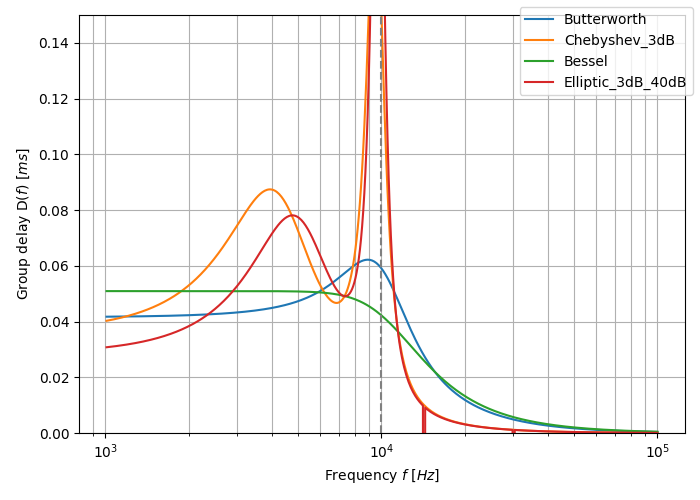
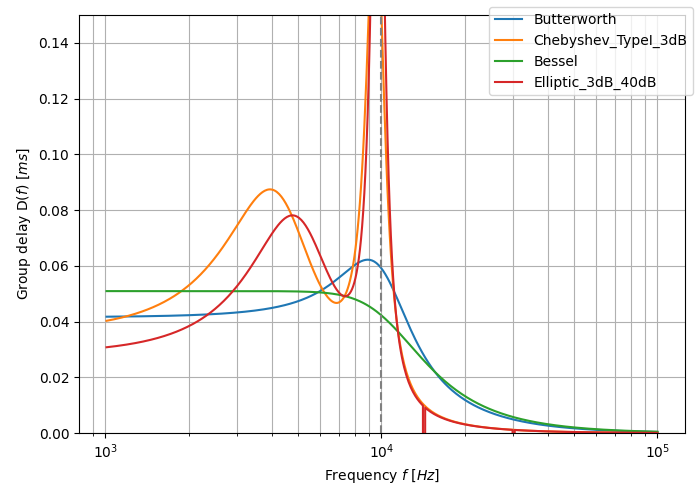
Added more info/graphs on filter tunings.

Changed region(s): [[0.69, 0.03, 0.99, 0.18]]

diff --git a/content/electronics/circuit-design/analogue-filters/filter-tunings/main.py b/content/electronics/circuit-design/analogue-filters/filter-tunings/main.py
@@ -24,7 +24,7 @@ def main():
     # create_bessel_poly_table()
     # create_bessel_bode_plots()
 
-    create_group_delay_comparison_plot()
+    create_comparison_plots()
 
 #==========================================================
 # Butterworth
@@ -311,8 +311,10 @@ def create_bessel_bode_plots():
 # Comparisons (all filter tunings)
 #==========================================================
 
-def create_group_delay_comparison_plot():
-
+def create_comparison_plots() -> None:
+    """
+    Creates a number of plots to compare gain, phase, group delay e.t.c for various filter tunings.
+    """
     filter_tunings = []
 
     order = 4
@@ -328,7 +330,7 @@ def create_group_delay_comparison_plot():
 
     b, a = scipy.signal.cheby1(N=order, rp=3, Wn=critical_freq_radps, btype='lowpass', analog=True)
     filter_tunings.append({
-        'name': 'Chebyshev_3dB',
+        'name': 'Chebyshev_TypeI_3dB',
         'b': b,
         'a': a,
     })
@@ -353,7 +355,34 @@ def create_group_delay_comparison_plot():
     w = 2*np.pi*f
 
     #======================
-    # Gain
+    # Gain (linear axes)
+    #======================
+
+    f_linear_Hz = np.linspace(0, critical_freq_Hz*2, 500)
+    w_linear_radps = 2*np.pi*f_linear_Hz
+    fig, ax = plt.subplots(figsize=(7, 5))
+    for filter_tuning in filter_tunings:
+        # Calculate value of transfer function h at various w
+        b = filter_tuning['b']
+        a = filter_tuning['a']
+        _, h = scipy.signal.freqs(b, a, worN=w_linear_radps)
+
+        # Calculate the group delay
+        gain = np.abs(h)
+        
+        ax.plot(f_linear_Hz, gain, label=filter_tuning['name'])
+
+    # Draw vertical marker at w_c
+    ax.axvline(x=critical_freq_Hz, ls='--', color='grey')    
+    ax.set_xlabel('Frequency $f$ [$Hz$]')
+    ax.set_ylabel('Gain $|H(f)|$ [$V/V$]')
+    ax.grid(which='both')
+    fig.legend()
+    fig.tight_layout()
+    fig.savefig(SCRIPT_DIR / 'tuning-comparison-gain-linear.png')
+
+    #======================
+    # Gain (db)
     #======================
 
     fig, ax = plt.subplots(figsize=(7, 5))
@@ -372,11 +401,36 @@ def create_group_delay_comparison_plot():
     ax.axvline(x=critical_freq_Hz, ls='--', color='grey')
     ax.set_xscale('log')
     ax.set_xlabel('Frequency $f$ [$Hz$]')
-    ax.set_ylabel('Gain |H($f$)| [$dB$]')
+    ax.set_ylabel('Gain $|H(f)|$ [$dB$]')
     ax.grid(which='both')
     fig.legend()
     fig.tight_layout()
-    fig.savefig(SCRIPT_DIR / 'tuning-comparison-gain.png')
+    fig.savefig(SCRIPT_DIR / 'tuning-comparison-gain-db.png')
+
+    #======================
+    # PHASE
+    #======================
+
+    fig, ax = plt.subplots(figsize=(7, 5))
+    for filter_tuning in filter_tunings:
+        # Calculate value of transfer function h at various w
+        b = filter_tuning['b']
+        a = filter_tuning['a']
+        _, h = scipy.signal.freqs(b, a, worN=w)
+        
+        phase_deg = np.rad2deg(np.unwrap(np.angle(h)))
+        ax.plot(f, phase_deg, label=filter_tuning['name'])
+
+    # Draw vertical marker at w_c
+    ax.axvline(x=critical_freq_Hz, ls='--', color='grey')
+    ax.set_xscale('log')
+    ax.set_xlabel('Frequency $f$ [$Hz$]')
+    ax.set_ylabel(r'Phase ($\theta$) [$deg$]')
+    ax.set_yticks([-360, -315, -270, -225, -180, -135, -90, -45, 0])
+    ax.grid(which='both')
+    fig.legend()
+    fig.tight_layout()
+    fig.savefig(SCRIPT_DIR / 'tuning-comparison-phase.png')
 
     #======================
     # GROUP DELAY

diff --git a/content/electronics/circuit-design/analogue-filters/filter-tunings/_index.md b/content/electronics/circuit-design/analogue-filters/filter-tunings/_index.md
@@ -21,24 +21,14 @@ _Filter tunings_ are specific tunings of filters to maximise a particular charac
 * **Bessel**: Optimized for linear phase response up to (or down to for high-pass filters) the cutoff frequency `\(f_c\)`, at the expense of a slower transition to the stop-band. This is useful to minimizing the signal distortion (a linear _phase response_ in the frequency domain is a constant _time delay_ in the time domain).
 * **Elliptic:** Designed to have the fastest transition from the passband to the stopband, at the expense of ripple in both of these bands (Chebyshev optimization only produces ripple in one of the bands but is not as fast in the transition). Also called _Cauer_ filters or _Rational Chebyshev_ filters.
 
-The graphs below show the differences in response (bode plots, gain and phase) for these various filter tunings:
-
-{{% figure src="low-pass-filter-optimization-comparison-gain-db.png" width="700px" caption="A comparison of different filter optimizations. Gain shown in dB." %}}
-
-Sometimes the differences can been visualized better by display the gain as `\(V/V\)`:
-
-{{% figure src="low-pass-filter-optimization-comparison-gain-vv.png" width="700px" caption="A comparison of different filter optimizations. Gain shown in V/V." %}}
-
-The linear phase delay of the Bessel filter is best visualized in the below plot where the phase in plotted on a linear scale rather than a logarithmic:
-
-{{% figure src="low-pass-filter-optimization-comparison-phase-linear.png" width="700px" caption="Phase delay of different filter optimizations, with the frequency plotted on a linear axis rather than a logarithmic axis. This is the best way to visualize the linear phase delay of the Bessel optimization." %}}
+These filters are explained in more detail below. If you are interested in visual comparisons, you can skip straight to the [Comparisons Between Filter Tunings section](#comparisons-between-filter-tunings).
 
 ## Butterworth Tunings
 
 Tuning a filter for a Butterworth response gives a filter which is **maximally flat in the passband**, and rolls off towards zero in the stopband. The price you pay for this is slower roll-off into the stop-band, compared with Chebyshev or Elliptic tunings.
 
 {{% tip %}}
-It may sounds dumb, but I've always remembered Butterworth as a flat passband which "slides like butter".
+It may sound dumb, but I've always remembered Butterworth as a flat passband which "slides like butter".
 {{% /tip %}}
 
 Butterworth tunings are defined as a filter whose magnitude is[^bib-wikipedia-butterworth-filter]:
@@ -320,6 +310,22 @@ We now use these equations for magnitude and phase and create bode plots!
 
 Elliptic-tuned filters (a.k.a. a Cauer or Zolotarev filter[^bib-rutgers-elliptic-lecture-notes]) is a filter that is optimized for the fastest transition in gain from the passband to the stopband. It has equal ripple in both the passband and stopband[^bib-wikipedia-elliptic-filter].
 
+Whereas most tunings are defined with a transfer function, the Elliptic filter is a special case where it is defined by it's gain. The gain for a lowpass Elliptic tuned filter is[^bib-wikipedia-elliptic-filter]:
+
+<p>\begin{align}
+G_n(\omega) &= \frac{1}{\sqrt{1 + \epsilon^2 R_n^2 (\xi, \omega/\omega_c)}} \nonumber \\
+\end{align}</p>
+
+<p class="centered">
+where:<br/>
+\(\epsilon\) is the ripple factor<br/>
+\(R_n(\xi, \omega)\) is the nth-order elliptic rational function<br/>
+\(\xi\) is the selectivity factor (\(\xi \geq 1\))<br/>
+\(\omega_c\) is the characteristic frequency, in radians per second \(rads^{-1}\)<br/>
+</p>
+
+**The big problem is that the elliptic ration function `\(R_n\)` cannot be easily expressed algebraically![^bib-recording-blogs-elliptic-filter]** It's general definition involves a Jacobi elliptic cosine function and the elliptic integral. Diving into this would be a headache, so we're just going to take the easy option and use the Python `scipy.signal.ellip()` function to provide us with the transfer function coefficients.
+
 You can generate an Elliptical filter in Python using the scipy package:
 
 ```python
@@ -328,60 +334,34 @@ import scipy.signal
 scipy.signal.ellip(N, rp, rs, Wn, btype='low', analog=False, output='ba', fs=None)
 ```
 
-## Filter Coefficient Tables
+## Comparisons Between Filter Tunings
 
-* `\(n\)` is the filter order
-* `\(i\)` is the partial filter order
-* `\(a_i\)` and `\(b_i\)` are the filter coefficients
-* `\(k_i\)` is the ratio between the corner frequency of the partial filter `\(f_{ci}\)` and the corner frequency of the overall filter `\(f_c\)`. In equation form:
-    <p>\begin{align}k_i = \frac{f_{ci}}{f_c} \end{align}</p>
-* `\(Q_i\)` is the quality factor of the partial filter
+The following parameters were used for the filters:
 
-All values have been normalized by setting `\(\omega_c = 1\)`.
+* All filters are 4th-order filters.
+* Characteristic frequency `\(f_c\)` of `\(10kHz\)`. For Butterworth and Bessel tunings the characteristic frequency is defined as the `\(-3dB\)` point. For Chebyshev and Elliptic filter tunings the characteristic frequency is defined as the point where the ripple leaves the allowable amount in the passband.
+* A rather arbitrary `\(3dB\)` of passband ripple was allowed for both the Chebyshev and Elliptic filters.
+* Being even more arbitrary, the Elliptic filter was allowed to rise back up to `\(-40dB\)` in the stopband.
 
-#### Butterworth Coefficients
+With the above specified, **the transfer function of each filter is fully defined**.
 
-<table>
-  <thead>
-    <tr><th>n</th>  <th>\(i\)</th>  <th>\(a_i\)</th>  <th>\(b_i\)</th>  <th>\(k_i\)</th>  <th>\(Q_i\)</th>  <th style="width: 200px;">Polynomial Factors</th></tr>
-  </thead>
-  <tbody>
-    <tr><td>1</td>      <td>1</td>      <td>1.0000</td>   <td>0.0000</td>   <td>1.000</td>    <td>n/a</td>  <td>\(s + 1\)</td></tr>
-    <tr><td>2</td>      <td>1</td>      <td>1.4142</td>   <td>1.0000</td>   <td>1.000</td>    <td>0.71</td> <td>\(s^2 + 1.4142s + 1\)</td></tr>
-    <tr><td>3</td>      <td>1</td>      <td>1.0000</td>   <td>0.0000</td>   <td>1.000</td>    <td>n/a</td>  <td rowspan="2">\((s + 1)(s^2 + s + 1)\)</td></tr>
-    <tr><td></td>       <td>2</td>      <td>1.0000</td>   <td>1.0000</td>   <td>1.272</td>    <td>1.00</td></tr>
-  </tbody>
-</table>
+Now we can finally look at some comparisons. The below plot compare the gain response of each filter tuning. Both axis are logarithmic. You can clearly see the Elliptic-tuned filter winning the race.
 
+{{% figure src="tuning-comparison-gain-db.png" width="600px" caption="Gain comparison of different filter tunings." %}}
 
+I think the difference is gain response can be better viewed with linear x and y axes So we'll drop the `\(dB\)` in favour of `\(V/V\)` and get rid of the logarithmic x-axis:
 
-### Chebyshev Coefficients For 3dB Passband Ripple
+{{% figure src="tuning-comparison-gain-linear.png" width="600px" caption="Gain comparison of different filter tunings, now with linear x and y axes." %}}
 
-<table>
-  <thead>
-    <tr><th>n</th>  <th>\(i\)</th>  <th>\(a_i\)</th>  <th>\(b_i\)</th>  <th>\(k_i\)</th>  <th>\(Q_i\)</th></tr>
-  </thead>
-  <tbody>
-    <tr><td>1</td>      <td>1</td>      <td>1.0000</td>   <td>0.0000</td>   <td>1.000</td>    <td>n/a</td></tr>
-    <tr><td>2</td>      <td>1</td>      <td>1.0650</td>   <td>1.9305</td>   <td>1.000</td>    <td>1.30</td></tr>
-    <tr><td>3</td>      <td>1</td>      <td>2.7994</td>   <td>0.0000</td>   <td>0.357</td>    <td>n/a</td></tr>
-    <tr><td></td>       <td>2</td>      <td>0.4300</td>   <td>1.2036</td>   <td>1.378</td>    <td>2.55</td></tr>
-  </tbody>
-</table>
+The linear axes helps to highlight the spread in behaviour between the different tunings. Look at that ripple in the passband with the Chebyshev and Elliptic filter tunings!
 
-### Bessel Coefficients
+Now we can look at the phase response.
 
-<table>
-  <thead>
-    <tr><th>n</th>  <th>\(i\)</th>  <th>\(a_i\)</th>  <th>\(b_i\)</th>  <th>\(k_i\)</th>  <th>\(Q_i\)</th></tr>
-  </thead>
-  <tbody>
-    <tr><td>1</td>      <td>1</td>      <td>1.0000</td>   <td>0.0000</td>   <td>1.000</td>    <td>n/a</td></tr>
-    <tr><td>2</td>      <td>1</td>      <td>1.3617</td>   <td>0.6180</td>   <td>1.000</td>    <td>0.58</td></tr>
-    <tr><td>3</td>      <td>1</td>      <td>0.7560</td>   <td>0.0000</td>   <td>1.323</td>    <td>n/a</td></tr>
-    <tr><td></td>       <td>2</td>      <td>0.9996</td>   <td>0.4772</td>   <td>1.414</td>    <td>0.69</td></tr>
-  </tbody>
-</table>
+{{% figure src="tuning-comparison-phase.png" width="600px" caption="Phase comparison of different filter tunings." %}}
+
+A comparison of group delay for the various filter tunings is shown below. You can clearly shows the flat group delay of the Bessel filter, and the horrible response of the Chebyshev/Elliptic filter tunings.
+
+{{% figure src="tuning-comparison-group-delay.png" width="600px" caption="Group delay comparison of different filter tunings." %}}
 
 ## References
 
@@ -393,3 +373,4 @@ All values have been normalized by setting `\(\omega_c = 1\)`.
 [^bib-wikipedia-chebyshev-polynomials]: Wikipedia (2022, Oct 16). _Chebyshev polynomials_. Retrieved 2022-10-16, from https://en.wikipedia.org/wiki/Chebyshev_polynomials.
 [^bib-thomson-delay-networks-maximally-flat-freq]: W. E. Thomson (1949, Nov). _Delay networks having maximally flat frequency characteristics_. 621.392.5: Paper No. 872 - Radio section.
 [^bib-wikipedia-bessel-filter]: Wikipedia (2022, Oct 16). _Bessel filter_. Retrieved 2022-10-20, from https://en.wikipedia.org/wiki/Bessel_filter.
+[^bib-recording-blogs-elliptic-filter]: Recording Blogs. _Elliptic filter_. Retrieved 2022-10-26, from https://www.recordingblogs.com/wiki/elliptic-filter.

diff --git a/content/electronics/circuit-design/what-are-transfer-functions-poles-and-zeroes/_index.md b/content/electronics/circuit-design/what-are-transfer-functions-poles-and-zeroes/_index.md
@@ -240,6 +240,10 @@ It will spit back at you things like the unit step response, state space represe
 
 The OKAWA Electric Design website has a [Transfer Function Analysis and Design tool](http://sim.okawa-denshi.jp/en/dtool.php) which can calculate many of the same things the Wolfram Alpha tool can[^bib-okawa-transfer-function-analysis].
 
+## Further Reading
+
+See the [Filter Tunings page](/electronics/circuit-design/analogue-filters/filter-tunings/) for info Butterworth, Chebyshev, Bessel and Elliptic analogue filter tunings and how to create their transfer functions from specific polynomials.
+
 ## References
 
 [^bib-wolfram-alpha-transfer-function-2nd-order-bessel]: Wolfram Alpha. _Results from providing the input text "transfer function (3)/(s^2+3s+3)"_. Retrieved 2022-10-22, from https://www.wolframalpha.com/input?i=transfer+function+%283%29%2F%28s%5E2%2B3s%2B3%29.
